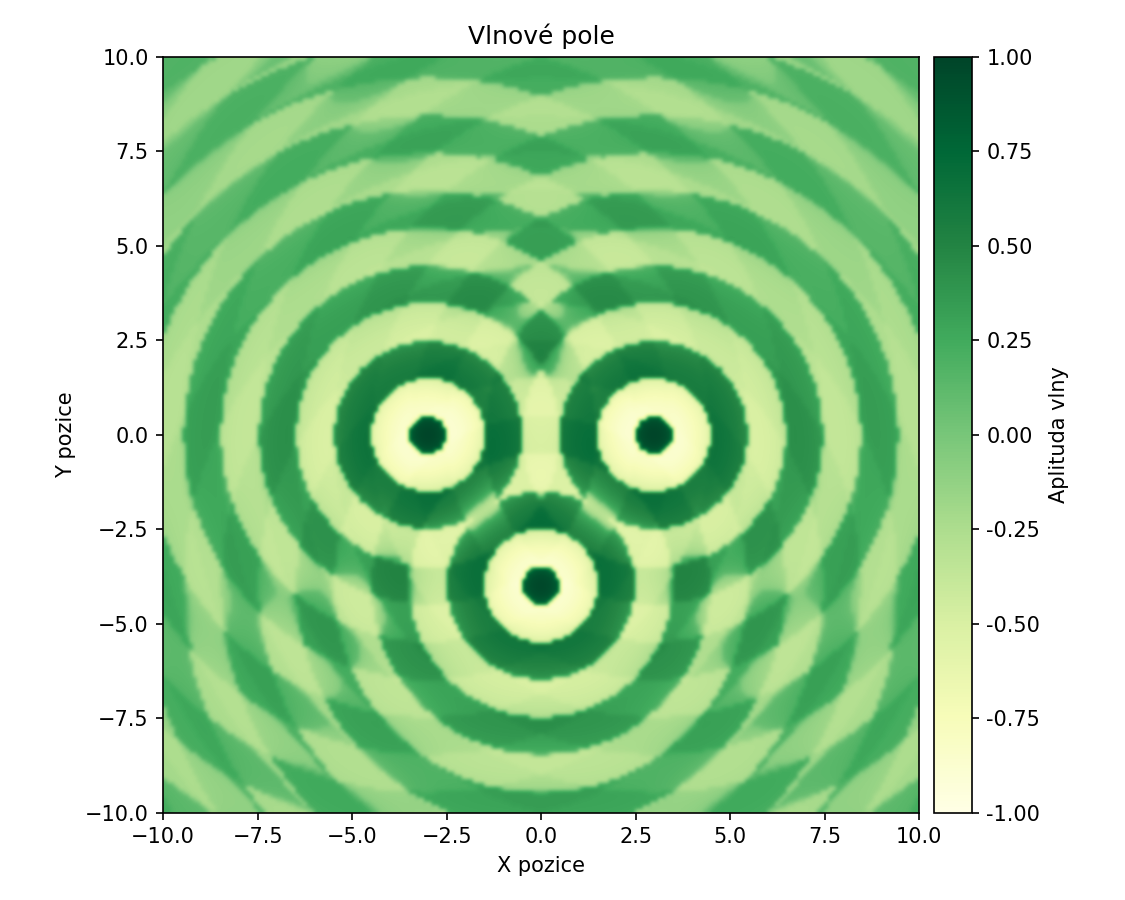
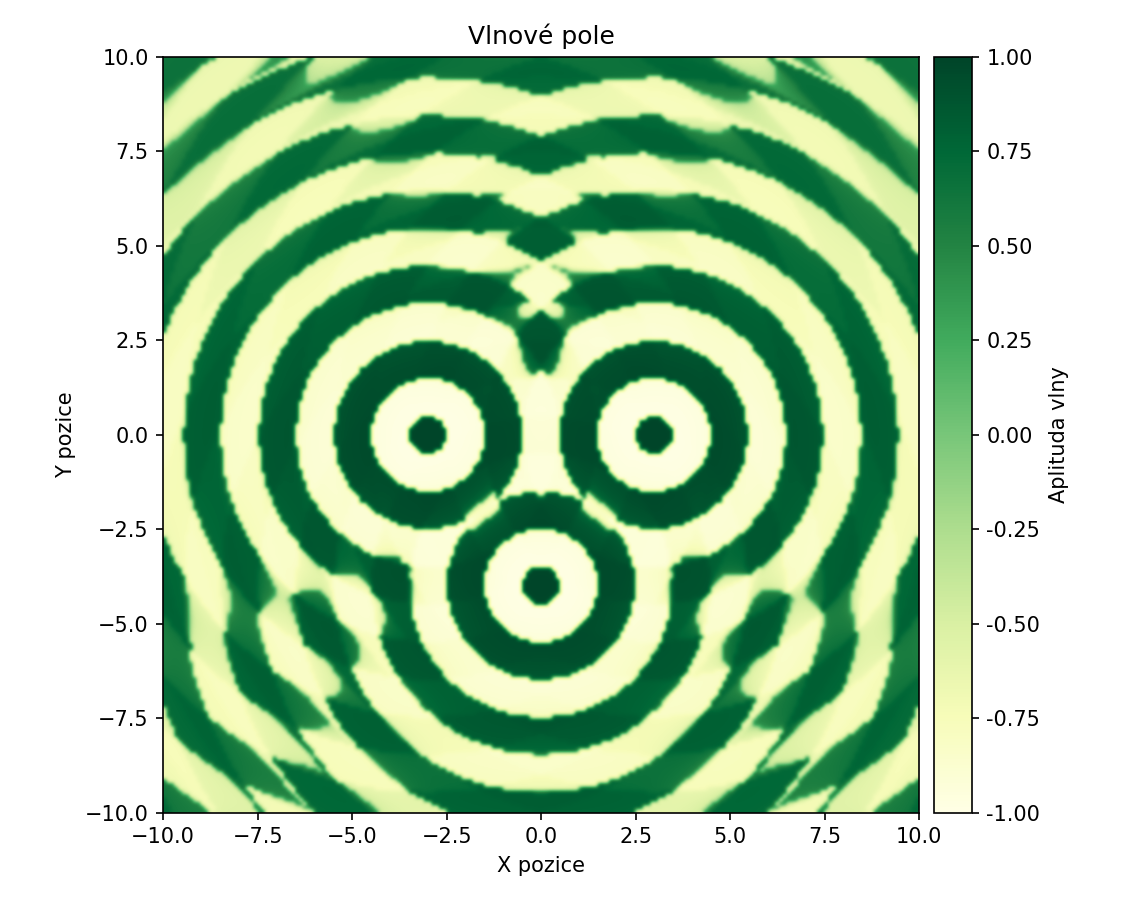
Refactor: Improve wave plot visualization with stronger shaping

diff --git a/part01.py b/part01.py
@@ -138,10 +138,13 @@ def plot_wave(
 
     fig, ax = plt.subplots(figsize=(7.5, 6))
 
-    # Normalize Z to [-1, 1] and apply mild gamma to thicken visual bands further
+    # Normalize Z to [-1, 1] and apply stronger shaping to thicken visual bands
     max_abs = float(np.max(np.abs(Z))) or 1.0
     Zn = Z / max_abs
-    Zn = np.sign(Zn) * (np.abs(Zn) ** 0.35)
+    # Heavier saturation via power-law (p < 1) and smooth tanh compression
+    Zn = np.sign(Zn) * (np.abs(Zn) ** 0.2)
+    _gain = 2.0
+    Zn = np.tanh(_gain * Zn) / np.tanh(_gain)
 
     # imshow expects matrix indexing (rows as Y), so transpose for consistent axes
     x_min, x_max = float(x.min()), float(x.max())
